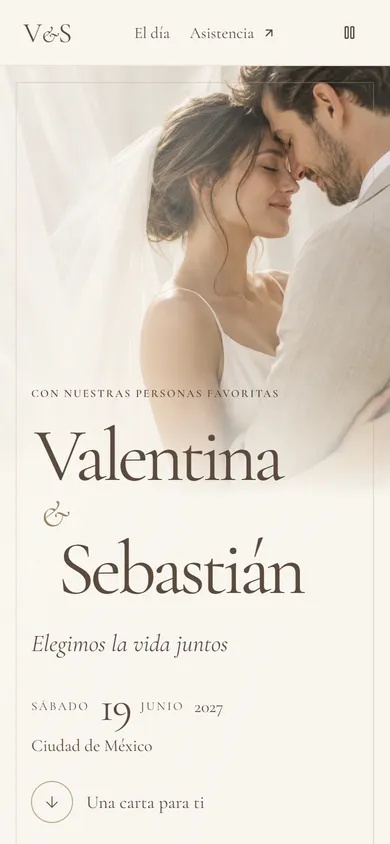
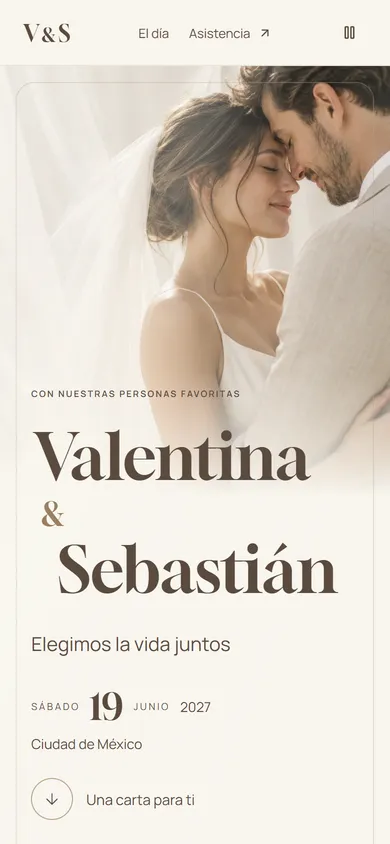
Bodas y panel de boda: Gloock en lugar de Cormorant
- Títulos de la página de Bodas, la muestra y los anillos en Gloock, con
  las mismas cajas de línea para no mover la foto del hero.
- Títulos y cifras del panel de boda (también Boreal y recepción) en
  Gloock; el énfasis va sin cursiva.
- Las invitaciones privadas de clientes reales conservan Cormorant
  (familia ClientWedding).
- Capturas del panel (ES/EN) y del recorrido del invitado actualizadas
  con la letra nueva. Cumpleaños y Eventos no cambian.

diff --git a/src/styles/private-weddings.css b/src/styles/private-weddings.css
@@ -1,8 +1,10 @@
+@font-face { font-family:ClientWedding; src:url('/fonts/wedding/cormorant-latin-roman.woff2') format('woff2'); font-weight:300 700; font-style:normal; font-display:swap; }
+@font-face { font-family:ClientWedding; src:url('/fonts/wedding/cormorant-latin-italic.woff2') format('woff2'); font-weight:300 700; font-style:italic; font-display:swap; }
 .wedding-client-entry {padding:30px 6vw 40px;background:radial-gradient(ellipse at 20% 20%,#fffdf7 0,transparent 55%),#f6f3ed}
 .wedding-client-entry>header {display:flex;align-items:center;justify-content:space-between;max-width:1180px;margin:auto}
 .client-card {max-width:550px;margin:65px auto 30px;padding:42px 46px;background:#fffcf6;border:1px solid #e2d8c9;border-radius:4px;box-shadow:0 18px 65px #6f543c07;animation:workspace-reveal .45s ease both;text-align:center}
 .client-card .workspace-monogram {margin-bottom:28px;width:70px;height:84px}
-.client-card h1 {font:400 clamp(34px,4vw,44px)/1.1 NordraWedding,Georgia,serif;letter-spacing:-.025em;margin:15px 0}
+.client-card h1 {font:400 clamp(34px,4vw,44px)/1.1 ClientWedding,Georgia,serif;letter-spacing:-.025em;margin:15px 0}
 .client-card>p {font-size:14px;color:#807363;line-height:1.7}
 .client-card form {display:grid;gap:18px;margin-top:28px;text-align:left}
 .client-card label,.real-response-person label {display:grid;gap:9px;font-size:13px}
@@ -14,7 +16,7 @@
 .client-back {display:flex;align-items:center;justify-content:center;gap:8px;font-size:13px;min-height:44px;color:#827361}
 .client-event-list {display:grid;gap:12px;margin:30px 0}
 .client-event-list button {display:flex;align-items:center;justify-content:space-between;gap:20px;background:#f2ece1;border:1px solid #ddd0bb;text-align:left;padding:20px;border-radius:5px}
-.client-event-list strong {display:block;font:26px NordraWedding,Georgia,serif}
+.client-event-list strong {display:block;font:26px ClientWedding,Georgia,serif}
 .client-event-list small {display:block;margin-top:10px;font-size:12px;color:#867560}
 .workspace-topbar button:not(.workspace-language) {border:1px solid #d6ccbb;border-radius:4px;background:transparent;padding:8px 12px;min-height:44px}
 .workspace-invitation-card>svg {margin:0 auto 20px;color:#9b805e}
@@ -28,23 +30,23 @@
 .real-invitation-hero.has-photo {display:grid;grid-template-columns:minmax(220px,.85fr) minmax(0,1.2fr);gap:55px;align-items:center;text-align:left}
 .real-invitation-hero>img {aspect-ratio:3/4;object-fit:cover;border-radius:48% 48% 3px 3px;width:100%}
 .real-invitation-heart {display:inline-grid;place-items:center;width:68px;height:80px;border:1px solid #baaa90;border-radius:50% 50% 2px 2px;color:#a18867;margin-bottom:28px}
-.real-invitation-hero h1 {font:400 clamp(46px,6vw,76px)/1 NordraWedding,Georgia,serif;letter-spacing:-.035em;margin:22px 0 25px;overflow-wrap:anywhere}
+.real-invitation-hero h1 {font:400 clamp(46px,6vw,76px)/1 ClientWedding,Georgia,serif;letter-spacing:-.035em;margin:22px 0 25px;overflow-wrap:anywhere}
 .personal-recipient {font-size:14px;line-height:1.8;color:#807362;margin:25px 0}.personal-recipient strong{font-weight:500;display:block;color:#5c4b38}
 .real-invitation-date {display:flex;justify-content:center;align-items:center;gap:9px;font-size:13px;color:#7c6a53}
 .has-photo .real-invitation-date {justify-content:flex-start}
 .real-invitation-hero .workspace-button {margin-top:24px}
 .real-invitation-response {border-top:1px solid #e2d7c5;background:#eeE7db;padding:55px max(24px,calc((100% - 760px)/2));text-align:center}
-.real-invitation-response h2 {font:400 clamp(34px,4vw,46px)/1.1 NordraWedding,Georgia,serif;margin:15px 0}
+.real-invitation-response h2 {font:400 clamp(34px,4vw,46px)/1.1 ClientWedding,Georgia,serif;margin:15px 0}
 .real-invitation-response>p:not(.workspace-eyebrow) {font-size:14px;color:#85745f;line-height:1.8}
 .real-invitation-response form {margin:35px auto 20px;max-width:760px}
 .real-response-fields {display:grid;grid-template-columns:repeat(auto-fit,minmax(min(100%,240px),1fr));gap:18px;padding:0;border:0;margin:0 0 25px;text-align:left;min-width:0}
 .real-response-person {padding:24px;background:#fffaf1;border:1px solid #ded2bd;border-radius:5px;min-width:0}
-.real-response-person h3 {font:400 29px/1.15 NordraWedding,Georgia,serif;margin:18px 0 25px;overflow-wrap:anywhere}
+.real-response-person h3 {font:400 29px/1.15 ClientWedding,Georgia,serif;margin:18px 0 25px;overflow-wrap:anywhere}
 .real-response-person label+label {margin-top:18px}
 .real-invitation-response small {display:block;font-size:12px;color:#82715c;margin-top:24px}
 .real-reply-success {display:flex;align-items:center;justify-content:center;gap:10px;background:#e2e6d8;padding:16px;border-radius:4px;color:#526047!important}
 .real-reply-error {max-width:660px;text-align:center;margin:30px auto;padding:20px;color:#8c5b46}
 .personal-loading {padding:100px 20px;text-align:center}
-.real-wedding-invitation>footer {text-align:center;font:italic 21px NordraWedding,Georgia,serif;padding:34px;color:#988466}
+.real-wedding-invitation>footer {text-align:center;font:italic 21px ClientWedding,Georgia,serif;padding:34px;color:#988466}
 @media(max-width:700px){.client-card{padding:32px 23px;margin:45px auto 25px}.wedding-client-entry{padding:25px 20px}.workspace-topbar>div{gap:8px;flex-wrap:wrap;justify-content:flex-end}.real-invitation-hero.has-photo{grid-template-columns:1fr;gap:32px;text-align:center}.real-invitation-hero{padding:40px 25px}.real-invitation-hero>img{max-width:280px;margin:auto}.has-photo .real-invitation-date{justify-content:center}.real-invitation-response{padding:40px 20px}.real-response-person{padding:22px}.client-event-list button{padding:15px}.workspace-welcome h1{overflow-wrap:anywhere}}
 @media(prefers-reduced-motion:reduce){.client-card{animation:none}}

diff --git a/src/styles/wedding-workspace.css b/src/styles/wedding-workspace.css
@@ -1,5 +1,5 @@
-@font-face { font-family:NordraWedding; src:url('/fonts/wedding/cormorant-latin-roman.woff2') format('woff2'); font-weight:300 700; font-style:normal; font-display:swap; }
-@font-face { font-family:NordraWedding; src:url('/fonts/wedding/cormorant-latin-italic.woff2') format('woff2'); font-weight:300 700; font-style:italic; font-display:swap; }
+@font-face { font-family:NordraWedding; src:url('/fonts/wedding/gloock-latin.woff2') format('woff2'); font-weight:300 700; font-style:normal; font-display:swap; size-adjust:84%; }
+@font-face { font-family:NordraWedding; src:url('/fonts/wedding/gloock-latin.woff2') format('woff2'); font-weight:300 700; font-style:italic; font-display:swap; size-adjust:84%; }
 * { box-sizing:border-box; }
 html { scroll-behavior:smooth; color-scheme:light; background:#f6f3ed; }
 body { margin:0; color:#4d443b; font-family:"Segoe UI",Arial,sans-serif; font-size:15px; line-height:1.5; }
@@ -43,7 +43,7 @@ img { display:block; max-width:100%; }
 .workspace-language:hover { background:#ece6db; }
 .workspace-welcome { display:flex; align-items:center; justify-content:space-between; gap:36px; padding:42px 0 40px; }
 .workspace-eyebrow { font-size:10px; letter-spacing:.16em; color:#766b5e; margin:0 0 13px; }
-.workspace-welcome h1 { font:400 clamp(40px,4.4vw,65px)/1.05 NordraWedding,Georgia,serif; letter-spacing:-.035em; margin:0 0 17px; }
+.workspace-welcome h1 { font:400 clamp(40px,4.4vw,65px)/1.05 NordraWedding,Georgia,serif; letter-spacing:-.005em; margin:0 0 17px; }
 .workspace-welcome h1 em { color:#998061; font-weight:400; }
 .workspace-date { display:flex; align-items:center; flex-wrap:wrap; gap:9px; font-size:12px; margin:0; color:#766b5e; }
 .workspace-welcome-note { color:#766b5e; font-size:14px; margin:19px 0 0; }
@@ -156,7 +156,7 @@ img { display:block; max-width:100%; }
 .workspace-confirmations .guest-panel-row-actions .guest-panel-delete:is(:hover,:focus-visible) { background:#f4e7de; color:#9a5b45; }
 .workspace-guest-editor { padding:8px; }
 .workspace-guest-editor .workspace-dialog-inner { padding:35px; }
-.workspace-guest-editor h2 { font:400 38px/1.1 NordraWedding,Georgia,serif; letter-spacing:-.02em; margin:0 0 28px; max-width:13ch; }
+.workspace-guest-editor h2 { font:400 38px/1.1 NordraWedding,Georgia,serif; letter-spacing:-.005em; margin:0 0 28px; max-width:13ch; }
 .workspace-editor-icon { display:grid; place-items:center; width:48px; height:48px; border:1px solid #ddd0bd; border-radius:50%; color:#806b50; margin-bottom:23px; }
 .workspace-editor-icon.is-removing { color:#935c48; border-color:#e2c9bb; background:#f9f0e8; }
 .workspace-guest-editor select { display:block; width:100%; min-height:48px; padding:10px 12px; border:1px solid #d8cdbd; border-radius:4px; background:#fffdf8; font-size:16px; cursor:pointer; }

diff --git a/src/site/styles/signature.css b/src/site/styles/signature.css
@@ -24,30 +24,40 @@ body[data-scene] h1 .business-title-line:first-child {
 /* Keep comparison and contextual contact together, without removing the existing path. */
 .business-hero-actions{display:grid;gap:10px;min-width:0}
 
-/* Bodas uses the existing marfil font, under a title-only alias. The 20% optical
-   enlargement compensates for Cormorant's smaller x-height. Metrics retain the
-   previous line boxes (0.97em ascent / 0.29em descent), including the hero photo's
-   position: 1.2 × 80.833333% = 97%; 1.2 × 24.166667% = 29%. */
+/* Bodas titles use Gloock, the same display face as the marfil invitation. Metrics keep
+   the previous line boxes (0.97em ascent / 0.29em descent) so the hero photo stays put.
+   The italic face maps to the upright file: emphasis is shown with colour, never slant. */
 @font-face {
   font-family: 'Cormorant Wedding';
-  src: url('/fonts/wedding/cormorant-latin-roman.woff2') format('woff2');
+  src: url('/fonts/wedding/gloock-latin.woff2') format('woff2');
   font-style: normal;
   font-weight: 300 500;
   font-display: swap;
-  size-adjust: 120%;
-  ascent-override: 80.833333%;
-  descent-override: 24.166667%;
+  size-adjust: 96%;
+  ascent-override: 101.041667%;
+  descent-override: 30.208333%;
+  line-gap-override: 0%;
+}
+@font-face {
+  font-family: 'Cormorant Wedding';
+  src: url('/fonts/wedding/gloock-latin.woff2') format('woff2');
+  font-style: italic;
+  font-weight: 300 500;
+  font-display: swap;
+  size-adjust: 96%;
+  ascent-override: 101.041667%;
+  descent-override: 30.208333%;
   line-gap-override: 0%;
 }
 
 body[data-scene="bodas"] .scene :is(h1, h2, h3):not(.host-preview *) {
   font-family: 'Cormorant Wedding', Georgia, serif;
-  font-weight: 450;
-  letter-spacing: -.035em;
+  font-weight: 400;
+  letter-spacing: -.008em;
 }
 
 body[data-scene="bodas"] .scene h1 .business-title-line {
-  letter-spacing: -.045em;
+  letter-spacing: -.012em;
 }
 
 /* Preserve the existing mobile break: “Hagamos / algo muy suyo”. */

diff --git a/src/styles/wedding-records.css b/src/styles/wedding-records.css
@@ -88,7 +88,7 @@
 .wedding-workspace .wedding-record-drawer button:hover,.wedding-workspace .wedding-record-drawer a:hover,.wedding-workspace .wedding-record-drawer summary:hover{background:#ede4d6}
 .wedding-workspace .record-detail-header button{border:0;width:44px}
 .record-kind{font-size:13px;color:#74624b;margin:0 0 9px}
-.wedding-workspace .record-detail-inner h2{font:400 39px/1.07 NordraWedding,Georgia,serif;letter-spacing:-.025em;margin:0 0 14px;overflow-wrap:anywhere}
+.wedding-workspace .record-detail-inner h2{font:400 39px/1.07 NordraWedding,Georgia,serif;letter-spacing:-.005em;margin:0 0 14px;overflow-wrap:anywhere}
 .record-completion{font-size:14px;color:#6b604f;display:flex;align-items:center;gap:7px;margin:0 0 23px}
 .record-share{margin-bottom:24px}
 .wedding-workspace .wedding-record-drawer .record-share summary{width:100%;background:#806b50;color:#fffdf8;border-color:#806b50;list-style:none}

diff --git a/src/styles/wedding-boreal.css b/src/styles/wedding-boreal.css
@@ -6,7 +6,7 @@
 .boreal-section { --boreal-line:#dfd7ca; animation:boreal-enter .45s ease both; }
 .boreal-heading { display:flex; justify-content:space-between; align-items:center; gap:24px; padding:24px 0 27px; }
 .boreal-heading .workspace-eyebrow { margin:0 0 9px; }
-.boreal-heading h2 { margin:0; font:400 clamp(32px,3vw,43px)/1.1 NordraWedding,Georgia,serif; letter-spacing:-.02em; }
+.boreal-heading h2 { margin:0; font:400 clamp(32px,3vw,43px)/1.1 NordraWedding,Georgia,serif; letter-spacing:-.005em; }
 .boreal-heading p:not(.workspace-eyebrow) { color:#766b5e; font-size:14px; margin:12px 0 0; }
 .boreal-heading-actions { display:flex; align-items:center; gap:18px; flex-shrink:0; }
 .wedding-workspace .boreal-quiet { display:inline-flex; gap:8px; align-items:center; justify-content:center; padding:10px 2px; min-height:44px; border:0; background:transparent; color:#76634c; font-size:13px; }
